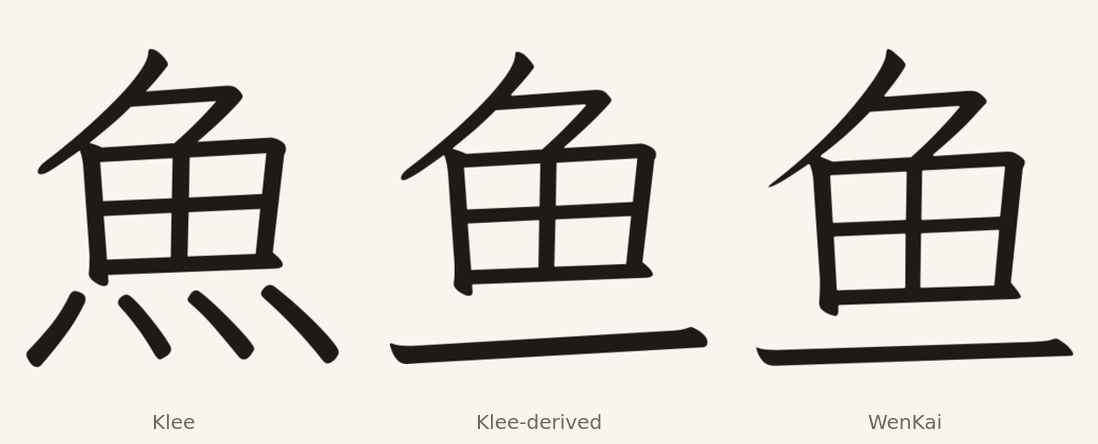
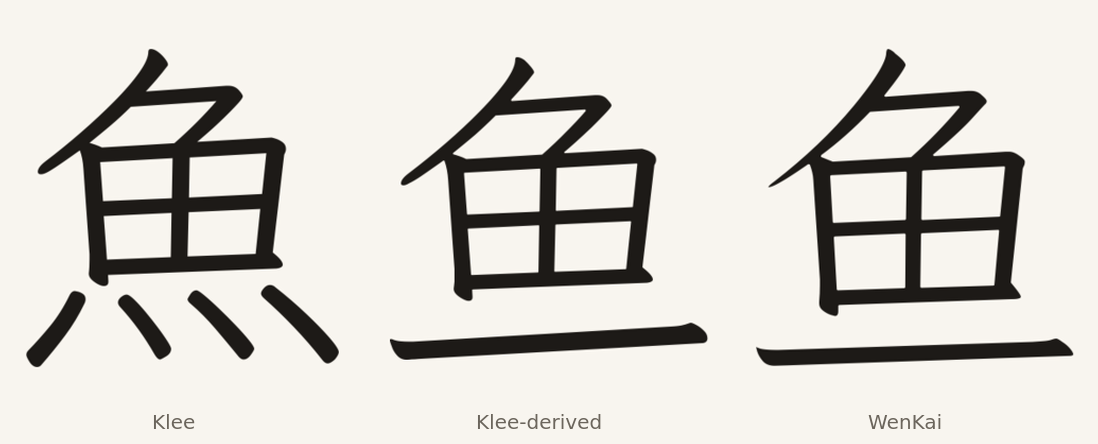
fix: raise the 鱼 bar 25 units

Changed region(s): [[0.3406, 0.1171, 0.6193, 0.4099], [0.4026, 0.4392, 0.6193, 0.6734], [0.3406, 0.732, 0.6503, 0.8198]]

diff --git a/docs/yu.md b/docs/yu.md
@@ -5,22 +5,20 @@
 has four dots.
 
 The designed glyph takes Klee 魚's upper strokes and 田 unchanged, drops the
-four dots, and sets Klee 一 as the bottom bar, scaled to the bar box. The result
-is eroded 2.3 units to Klee's weight model (stroke width 47.8 → 43.3), so it
-matches the imported layer's weight rather than WenKai's raw Light outlines.
+four dots, and sets Klee 一 as the bottom bar. The bar takes WenKai's 鱼 width
+and sits 25 units above its bar box, narrowing the gap to the 田. The outline is
+eroded 2.3 units to Klee's weight model (stroke width 47.8 → 43.0), matching the
+imported layer rather than WenKai's raw Light weight.
 
 ![Klee 魚, the designed 鱼 and WenKai's 鱼](images/yu.png)
 
-The upper part and the bar are Klee's own strokes. The bar sits at the width and
-height of WenKai's 鱼 bar, and the whole glyph keeps a 1,000-unit advance. The
-glyph is a replacement in Full only: `DESIGNED_IMPORTS` in `scripts/build.py`
-overrides the imported outline after the merge. Kana and Additions do not carry
-it, and no other edition's repertoire changes.
+The upper part and the bar are Klee's own strokes. The glyph keeps a
+1,000-unit advance. It is a replacement in Full only: `DESIGNED_IMPORTS` in
+`scripts/build.py` overrides the imported outline after the merge. Kana and
+Additions do not carry it, and no other edition's repertoire changes.
 
 The result is not a repaint of WenKai's glyph: the 田, the top stroke and the
-bar keep Klee's terminals. The optical placement still needs a text-size review;
-the upper part sits a little higher than WenKai's, leaving a wider gap above the
-bar.
+bar keep Klee's terminals. The bar placement still needs a text-size review.
 
 ## Checks
 
